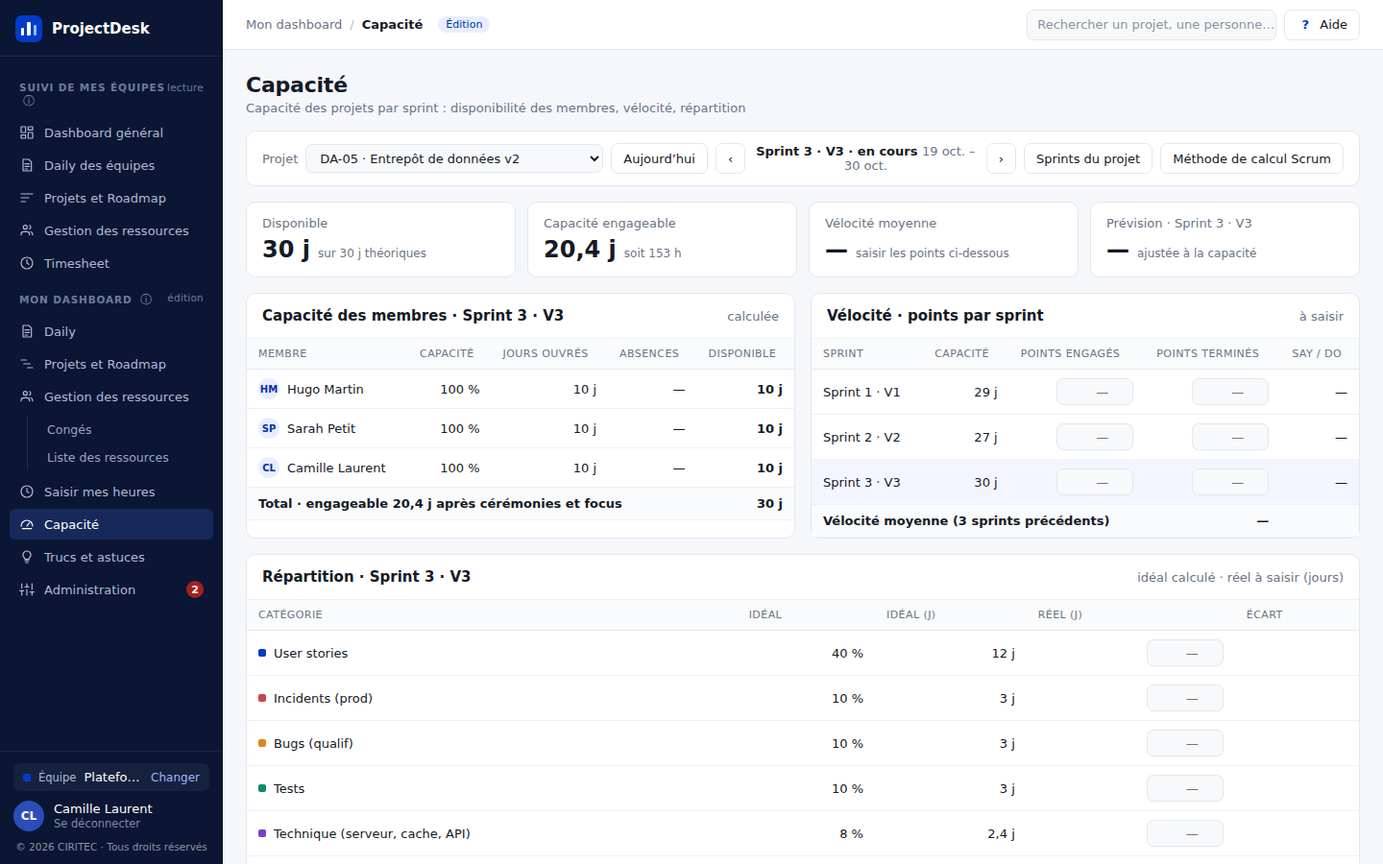
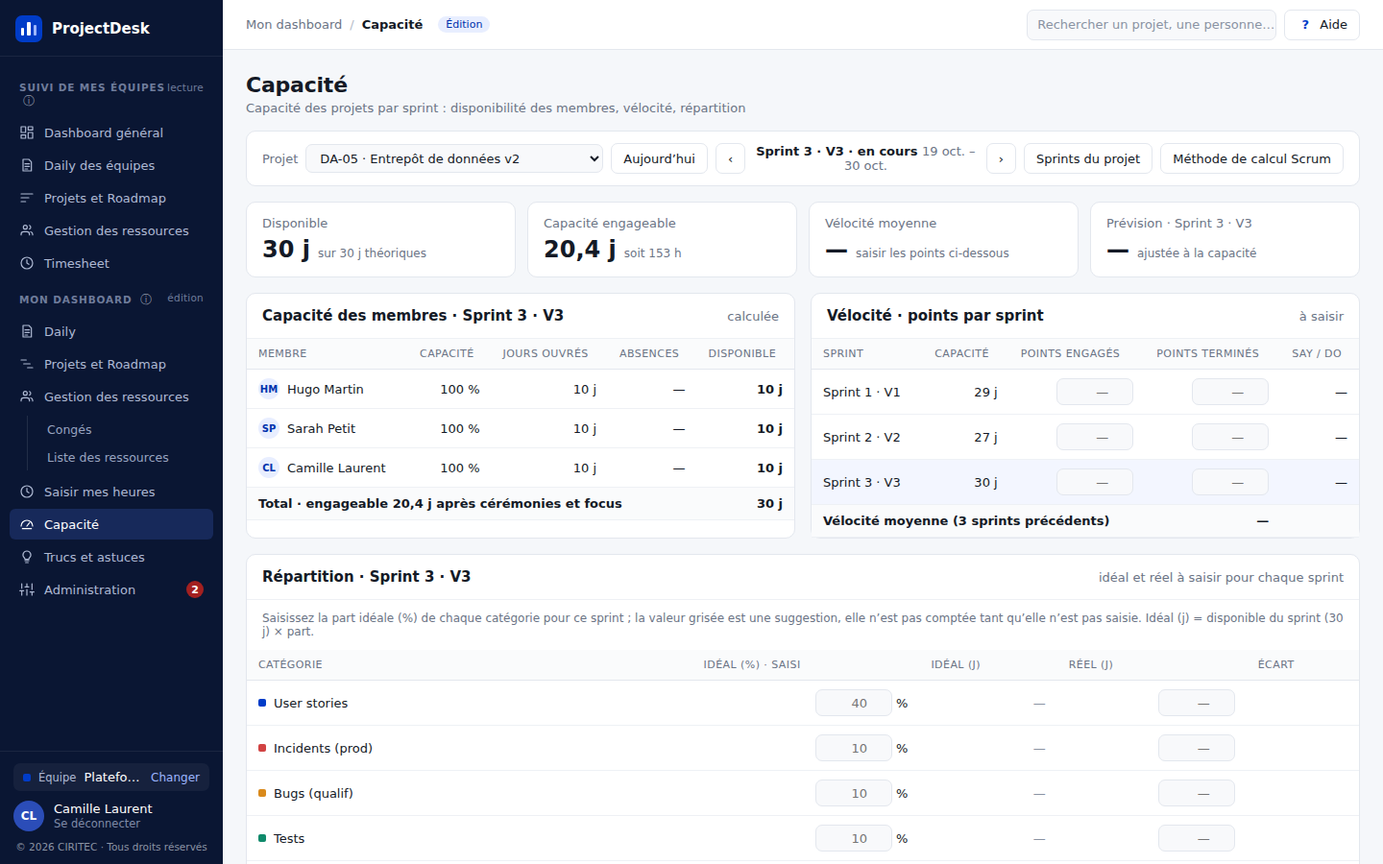
Capacité : part idéale de la répartition saisie par sprint (2.34)
Migration 040 (additive, appliquée) : colonne part de repartitions_sprint,
jours facultatif. La part de REPARTITION_SPRINT devient une suggestion
en grisé, non comptée ; idéal (j) = disponible × part saisie ; alerte
non bloquante si le total ≠ 100 %.

Claude-Session: https://claude.ai/code/session_0187v8SY8uiT6dnWqjjqJYb6

diff --git a/app/js/ecrans/capacite.js b/app/js/ecrans/capacite.js
@@ -5,7 +5,7 @@
    - indicateurs : disponible, engageable (Scrum), vélocité, prévision ;
    - capacité des membres (calculée : congés, fériés, arrivées et départs) ;
    - vélocité : points engagés / terminés SAISIS par sprint ;
-   - répartition du sprint : idéal (REPARTITION_SPRINT) et jours réels SAISIS par catégorie.
+   - répartition du sprint : part idéale (%) et jours réels SAISIS par catégorie (part suggérée : REPARTITION_SPRINT).
    Calculs : Calculs.capacitePeriode, capaciteScrum, velocite, repartitionSprint.
    Saisies : tables sprints_projet et repartitions_sprint (etat.d.sprintsProjet, repartitionsSprint).
    ============================================================ */
@@ -28,9 +28,19 @@ const Capacite = {
   },
   // Saisies d'un projet pour un sprint (lignes vides si rien n'est encore saisi)
   saisieSprint: (projetId, numero) => (etat.d.sprintsProjet || []).find(s => s.projetId === projetId && s.numero === numero) || {},
-  joursReels: (projetId, numero, categorie) => {
-    const r = (etat.d.repartitionsSprint || []).find(x => x.projetId === projetId && x.numero === numero && x.categorie === categorie);
-    return r ? Number(r.jours) : null;
+  // Saisie de répartition d'une catégorie pour un sprint (part idéale et jours réels), ou null
+  saisieRepartition: (projetId, numero, categorie) =>
+    (etat.d.repartitionsSprint || []).find(x => x.projetId === projetId && x.numero === numero && x.categorie === categorie) || null,
+  joursReels(projetId, numero, categorie) {
+    const r = this.saisieRepartition(projetId, numero, categorie);
+    return r && r.jours != null ? Number(r.jours) : null;
+  },
+  // Parts idéales saisies pour un sprint : { catégorie: % } (migration 040)
+  partsSaisies(projetId, numero) {
+    const parts = {};
+    (etat.d.repartitionsSprint || []).filter(x => x.projetId === projetId && x.numero === numero && x.part != null)
+      .forEach(x => { parts[x.categorie] = Number(x.part); });
+    return parts;
   },
 
   /* Données du sprint affiché, calculées une fois pour toutes les cartes :
@@ -130,26 +140,41 @@ const Capacite = {
         <td class="num">${v ? n(v.velocite) + ' pts' : '—'}</td><td class="num">${v ? '≈ ' + n(v.prevision) + ' pts prévus' : ''}</td></tr></tbody></table></div>`;
   },
 
-  // Répartition du sprint : idéal calculé (REPARTITION_SPRINT), jours réels saisis par catégorie, écart
+  /* Répartition du sprint (maquette capacite-repartition-saisie/, porteur 2026-10-23) : part idéale (%)
+     et jours réels SAISIS par catégorie ; idéal (j) = disponible × part saisie ; la part suggérée
+     (REPARTITION_SPRINT) n'apparaît qu'en grisé et n'est pas comptée */
   carteRepartition(d) {
     const esc = C.esc, n = Calculs.nombre, { p, sprint, capSprint, modifiable } = d;
-    const lignes = Calculs.repartitionSprint(capSprint.disponible).map(c => {
+    const categories = Calculs.repartitionSprint(capSprint.disponible, this.partsSaisies(p.id, sprint.numero));
+    const champ = (c, nom, valeur, attributs) => `<input type="number" min="0" ${attributs} class="champ saisie-points" value="${valeur ?? ''}"
+      ${modifiable ? '' : 'disabled'} data-action-change="saisirRepartition" data-champ="${nom}" data-projet="${p.id}" data-numero="${sprint.numero}"
+      data-categorie="${esc(c.categorie)}">`;
+    const lignes = categories.map(c => {
       const reel = this.joursReels(p.id, sprint.numero, c.categorie);
-      const ecart = reel == null ? ''
+      const ecart = reel == null || c.jours == null ? ''
         : `<span class="${reel - c.jours > 0.5 ? 'reste-negatif' : 'discret'}">${reel - c.jours > 0 ? '+' : ''}${n(reel - c.jours)} j</span>`;
-      return `<tr><td><span class="ligne-flex">${C.pastille(c.couleur)}${esc(c.categorie)}</span></td><td class="num">${c.part} %</td>
-        <td class="num">${n(c.jours)} j</td>
-        <td class="num"><input type="number" min="0" step="0.5" class="champ saisie-points" value="${reel ?? ''}" placeholder="—" ${modifiable ? '' : 'disabled'}
-          data-action-change="saisirRepartition" data-projet="${p.id}" data-numero="${sprint.numero}" data-categorie="${esc(c.categorie)}"></td>
-        <td class="num">${ecart}</td></tr>`;
+      return `<tr><td><span class="ligne-flex">${C.pastille(c.couleur)}${esc(c.categorie)}</span></td>
+        <td class="num">${champ(c, 'part', c.part, `max="100" step="0.5" placeholder="${c.suggestion}"`)} %</td>
+        <td class="num">${c.jours == null ? '<span class="pale">—</span>' : n(c.jours) + ' j'}</td>
+        <td class="num">${champ(c, 'jours', reel, 'step="0.5" placeholder="—"')}</td><td class="num">${ecart}</td></tr>`;
     }).join('');
-    const totalReel = REPARTITION_SPRINT.reduce((s, c) => s + (this.joursReels(p.id, sprint.numero, c.categorie) || 0), 0);
     return `<div class="carte"><div class="carte-titre"><h2>Répartition · ${esc(nomSprint(sprint))}</h2>
-      <span class="discret">idéal calculé · réel à saisir (jours)</span></div>
-      <table class="tableau"><thead><tr><th>Catégorie</th><th class="num">Idéal</th><th class="num">Idéal (j)</th>
+      <span class="discret">idéal et réel à saisir pour chaque sprint</span></div>
+      <div class="discret texte-12 encart-compact">Saisissez la part idéale (%) de chaque catégorie pour ce sprint ; la valeur grisée est une
+        suggestion, elle n’est pas comptée tant qu’elle n’est pas saisie. Idéal (j) = disponible du sprint (${n(capSprint.disponible)} j) × part.</div>
+      <table class="tableau"><thead><tr><th>Catégorie</th><th class="num">Idéal (%) · saisi</th><th class="num">Idéal (j)</th>
         <th class="num">Réel (j)</th><th class="num">Écart</th></tr></thead>
-      <tbody>${lignes}<tr class="groupe"><td>Total</td><td class="num">100 %</td><td class="num">${n(capSprint.disponible)} j</td>
-        <td class="num">${n(totalReel)} j</td><td></td></tr></tbody></table></div>`;
+      <tbody>${lignes}${this.totalRepartition(categories, p, sprint)}</tbody></table></div>`;
+  },
+  // Ligne Total de la répartition : somme des parts saisies (alerte si ≠ 100 %, sans bloquer), des jours idéaux et réels
+  totalRepartition(categories, p, sprint) {
+    const n = Calculs.nombre, saisies = categories.filter(c => c.part != null);
+    const totalPart = saisies.reduce((s, c) => s + c.part, 0), totalIdeal = saisies.reduce((s, c) => s + c.jours, 0);
+    const totalReel = categories.reduce((s, c) => s + (this.joursReels(p.id, sprint.numero, c.categorie) || 0), 0);
+    const alerte = saisies.length && totalPart !== 100
+      ? ` ${C.badgeTon(totalPart < 100 ? `≠ 100 % : il manque ${n(100 - totalPart)} %` : `≠ 100 % : ${n(totalPart - 100)} % en trop`, 'attention')}` : '';
+    return `<tr class="groupe"><td>Total</td><td class="num"><span class="${alerte ? 'reste-negatif' : ''}">${n(totalPart)} %</span>${alerte}</td>
+      <td class="num">${n(totalIdeal)} j</td><td class="num">${n(totalReel)} j</td><td></td></tr>`;
   },
 
   // Onglet Capacité : sans projet ou sans sprint, un message ; sinon en-tête, indicateurs et les trois cartes
@@ -185,16 +210,20 @@ Object.assign(Actions, {
     if (valeur !== null && !(valeur >= 0)) return notifier('Nombre de points invalide', 'erreur');
     modifierSprint(d.projet, d.numero, { [d.champ]: valeur });
   },
-  /* Jours réels d'une catégorie pour un sprint : upsert ; un champ vidé supprime la saisie */
+  /* Part idéale (%) ou jours réels d'une catégorie pour un sprint (data-champ = part | jours) : upsert ;
+     un champ vidé efface la valeur, et la ligne entière si l'autre valeur est vide aussi (contrainte de la migration 040) */
   saisirRepartition(d, el) {
     const cle = { projetId: d.projet, numero: Number(d.numero), categorie: d.categorie };
+    const filtre = { projet_id: 'eq.' + cle.projetId, numero: 'eq.' + cle.numero, categorie: 'eq.' + cle.categorie };
     if (el.value === '') {
-      const filtre = { projet_id: 'eq.' + cle.projetId, numero: 'eq.' + cle.numero, categorie: 'eq.' + cle.categorie };
-      return executer(() => Api.supprimer('repartitions_sprint', filtre), 'repartitionsSprint');
+      const ligne = Capacite.saisieRepartition(cle.projetId, cle.numero, cle.categorie), autre = d.champ === 'part' ? 'jours' : 'part';
+      if (!ligne) return;
+      return executer(() => ligne[autre] == null ? Api.supprimer('repartitions_sprint', filtre)
+        : Api.modifier('repartitions_sprint', filtre, { [d.champ]: null }), 'repartitionsSprint');
     }
-    const jours = Number(el.value);
-    if (!(jours >= 0)) return notifier('Nombre de jours invalide', 'erreur');
-    executer(() => Api.creer('repartitions_sprint', { ...cle, jours }, 'projet_id,numero,categorie'), 'repartitionsSprint');
+    const valeur = Number(el.value);
+    if (!(valeur >= 0) || (d.champ === 'part' && valeur > 100)) return notifier(d.champ === 'part' ? 'Part invalide (0 à 100 %)' : 'Nombre de jours invalide', 'erreur');
+    executer(() => Api.creer('repartitions_sprint', { ...cle, [d.champ]: valeur }, 'projet_id,numero,categorie'), 'repartitionsSprint');
   }
 });
 

diff --git a/app/index.html b/app/index.html
@@ -11,7 +11,7 @@
 <link href="https://fonts.googleapis.com/css2?family=IBM+Plex+Sans:wght@400;500;600;700&family=IBM+Plex+Mono:wght@400;500&display=swap" rel="stylesheet">
 <!-- ?v= : version des fichiers (= version du DAT), à changer à chaque livraison : force le navigateur
      à recharger le code au lieu de réutiliser une ancienne copie en mémoire. -->
-<link rel="stylesheet" href="css/theme.css?v=2.33">
+<link rel="stylesheet" href="css/theme.css?v=2.34">
 </head>
 <body>
   <!-- Toute l'interface est dessinée dans #app par js/coquille.js et js/ecrans/*.js -->
@@ -19,33 +19,33 @@
   <div id="notification" class="notification" role="status"></div>
 
   <!-- Ordre de chargement : configuration, outils, état, puis écrans (qui s'enregistrent dans Ecrans) -->
-  <script src="js/config.js?v=2.33"></script>
-  <script src="js/api.js?v=2.33"></script>
-  <script src="js/calculs.js?v=2.33"></script>
-  <script src="js/etat.js?v=2.33"></script>
-  <script src="js/composants.js?v=2.33"></script>
-  <script src="js/coquille.js?v=2.33"></script>
-  <script src="js/panneau-projet.js?v=2.33"></script>
-  <script src="js/modale.js?v=2.33"></script>
-  <script src="js/excel.js?v=2.33"></script>
-  <script src="js/roles.js?v=2.33"></script>
-  <script src="js/simulation.js?v=2.33"></script>
-  <script src="js/ecrans/connexion.js?v=2.33"></script>
-  <script src="js/ecrans/choix-equipe.js?v=2.33"></script>
-  <script src="js/ecrans/dashboard.js?v=2.33"></script>
-  <script src="js/ecrans/projets.js?v=2.33"></script>
-  <script src="js/ecrans/ressources.js?v=2.33"></script>
-  <script src="js/ecrans/administration.js?v=2.33"></script>
-  <script src="js/ecrans/timesheet.js?v=2.33"></script>
-  <script src="js/ecrans/daily-equipes.js?v=2.33"></script>
-  <script src="js/ecrans/daily.js?v=2.33"></script>
-  <script src="js/ecrans/mes-projets.js?v=2.33"></script>
-  <script src="js/ecrans/conges.js?v=2.33"></script>
-  <script src="js/ecrans/capacite.js?v=2.33"></script>
-  <script src="js/ecrans/liste-ressources.js?v=2.33"></script>
-  <script src="js/ecrans/mon-timesheet.js?v=2.33"></script>
-  <script src="js/ecrans/previsionnel.js?v=2.33"></script>
-  <script src="js/ecrans/mon-admin.js?v=2.33"></script>
-  <script src="js/ecrans/astuces.js?v=2.33"></script>
+  <script src="js/config.js?v=2.34"></script>
+  <script src="js/api.js?v=2.34"></script>
+  <script src="js/calculs.js?v=2.34"></script>
+  <script src="js/etat.js?v=2.34"></script>
+  <script src="js/composants.js?v=2.34"></script>
+  <script src="js/coquille.js?v=2.34"></script>
+  <script src="js/panneau-projet.js?v=2.34"></script>
+  <script src="js/modale.js?v=2.34"></script>
+  <script src="js/excel.js?v=2.34"></script>
+  <script src="js/roles.js?v=2.34"></script>
+  <script src="js/simulation.js?v=2.34"></script>
+  <script src="js/ecrans/connexion.js?v=2.34"></script>
+  <script src="js/ecrans/choix-equipe.js?v=2.34"></script>
+  <script src="js/ecrans/dashboard.js?v=2.34"></script>
+  <script src="js/ecrans/projets.js?v=2.34"></script>
+  <script src="js/ecrans/ressources.js?v=2.34"></script>
+  <script src="js/ecrans/administration.js?v=2.34"></script>
+  <script src="js/ecrans/timesheet.js?v=2.34"></script>
+  <script src="js/ecrans/daily-equipes.js?v=2.34"></script>
+  <script src="js/ecrans/daily.js?v=2.34"></script>
+  <script src="js/ecrans/mes-projets.js?v=2.34"></script>
+  <script src="js/ecrans/conges.js?v=2.34"></script>
+  <script src="js/ecrans/capacite.js?v=2.34"></script>
+  <script src="js/ecrans/liste-ressources.js?v=2.34"></script>
+  <script src="js/ecrans/mon-timesheet.js?v=2.34"></script>
+  <script src="js/ecrans/previsionnel.js?v=2.34"></script>
+  <script src="js/ecrans/mon-admin.js?v=2.34"></script>
+  <script src="js/ecrans/astuces.js?v=2.34"></script>
 </body>
 </html>

diff --git a/tests/parcours.js b/tests/parcours.js
@@ -488,11 +488,25 @@ const verifier = (nom, condition, detail = '') => { resultats.push({ nom, ok: !!
     // Saisie : points terminés du sprint précédent (V2) → vélocité ; jours réels d'une catégorie
     await page.fill('input[data-action-change="saisirPoints"][data-champ="pointsTermines"] >> nth=1', '21');
     await page.press('input[data-action-change="saisirPoints"][data-champ="pointsTermines"] >> nth=1', 'Tab'); await page.waitForTimeout(400);
-    await page.fill('input[data-action-change="saisirRepartition"] >> nth=0', '11');
-    await page.press('input[data-action-change="saisirRepartition"] >> nth=0', 'Tab'); await page.waitForTimeout(400);
+    await page.fill('input[data-action-change="saisirRepartition"][data-champ="jours"] >> nth=0', '11');
+    await page.press('input[data-action-change="saisirRepartition"][data-champ="jours"] >> nth=0', 'Tab'); await page.waitForTimeout(400);
     verifier('Capacité : saisie des points (vélocité) et des jours réels enregistrée', await page.evaluate(() =>
       etat.d.sprintsProjet.some(s => s.nom === 'V2' && Number(s.pointsTermines) === 21) && etat.d.repartitionsSprint.some(r => r.categorie === 'User stories' && Number(r.jours) === 11))
       && (await page.textContent('.grille-kpi')).includes('21 pts'));
+    /* Répartition (migration 040, porteur 2026-10-23) : part idéale saisie par sprint ; sans saisie, pas d'idéal (suggestion en grisé) */
+    const sansPart = await page.$eval('input[data-champ="part"][data-categorie="User stories"]', e => e.value === '' && e.placeholder === '40');
+    await page.fill('input[data-champ="part"][data-categorie="User stories"]', '45');
+    await page.press('input[data-champ="part"][data-categorie="User stories"]', 'Tab'); await page.waitForTimeout(400);
+    const ligneUs = await page.$eval('input[data-champ="part"][data-categorie="User stories"]', e => e.closest('tr').textContent.replace(/\s+/g, ' '));
+    const disponible = await page.evaluate(() => Calculs.nombre(etat.d.repartitionsSprint.length && Capacite.donnees(Capacite.projetChoisi(),
+      sprintsDuProjet(Capacite.projetChoisi().id)).capSprint.disponible * 0.45));
+    verifier('Capacité › Répartition : part idéale saisie pour le sprint, idéal (j) calculé, alerte si le total ≠ 100 %',
+      sansPart && ligneUs.includes(disponible + ' j') && (await texte()).includes('il manque 55 %')
+      && await page.evaluate(() => etat.d.repartitionsSprint.some(r => r.categorie === 'User stories' && Number(r.part) === 45 && Number(r.jours) === 11)),
+      ligneUs);
+    await page.evaluate(() => { const c = document.querySelector('.contenu'); c.scrollTop = c.scrollHeight; });
+    await capture('11c-capacite-repartition');
+    await page.evaluate(() => { document.querySelector('.contenu').scrollTop = 0; });
     await page.click('[data-action="ouvrirMethodeCapacite"]'); await page.waitForTimeout(150);
     const methode = (await page.textContent('.modale')) || '';
     await page.click('.modale [data-action="fermer"]'); await page.waitForTimeout(150);

diff --git a/app/js/calculs.js b/app/js/calculs.js
@@ -83,8 +83,13 @@ const Calculs = (() => {
     return { velocite: moyennePoints, capaciteMoyenne: moyenneCapacite,
       prevision: moyenneCapacite ? moyennePoints * capaciteSprint / moyenneCapacite : 0 };
   }
-  // Répartition idéale d'un sprint : jours par catégorie = jours disponibles × part (REPARTITION_SPRINT)
-  const repartitionSprint = disponible => REPARTITION_SPRINT.map(c => ({ ...c, jours: disponible * c.part / 100 }));
+  /* Répartition idéale d'un sprint : jours par catégorie = jours disponibles × part SAISIE pour le sprint
+     (migration 040, porteur 2026-10-23). parts = { catégorie: % saisi }. Sans saisie : part et jours null
+     (la part de REPARTITION_SPRINT reste en « suggestion », elle n'est pas comptée). */
+  const repartitionSprint = (disponible, parts) => REPARTITION_SPRINT.map(c => {
+    const part = parts[c.categorie] ?? null;
+    return { ...c, suggestion: c.part, part, jours: part == null ? null : disponible * part / 100 };
+  });
 
   /* ---------- Projets ---------- */
   const estTermine = p => p.statut === STATUTS_PROJET.TERMINE;

diff --git a/app/js/modale.js b/app/js/modale.js
@@ -204,8 +204,9 @@ const Modale = {
         ${bloc('Vélocité', [`<b>Vélocité</b> = moyenne des points terminés sur les ${CONFIG.SPRINTS_MOYENNE_VELOCITE} derniers sprints`,
           '<b>Prévision</b> du sprint = vélocité × (capacité du sprint ÷ capacité moyenne des sprints de référence)',
           'ne se compare pas entre équipes : elle sert à prévoir'])}
-        ${bloc('Répartition idéale d’un sprint', ['<b>Jours par catégorie</b> = jours disponibles du sprint × part de la catégorie',
-          'parts proposées (pratiques Scrum usuelles, à ajuster) : ' + REPARTITION_SPRINT.map(c => `${C.esc(c.categorie)} ${c.part} %`).join(' · ')])}
+        ${bloc('Répartition idéale d’un sprint', ['<b>Jours par catégorie</b> = jours disponibles du sprint × part saisie pour ce sprint',
+          'parts suggérées (pratiques Scrum usuelles, en grisé tant qu’elles ne sont pas saisies) : '
+            + REPARTITION_SPRINT.map(c => `${C.esc(c.categorie)} ${c.part} %`).join(' · ')])}
       </div></div>`;
   },
 

diff --git a/app/js/config.js b/app/js/config.js
@@ -173,8 +173,9 @@ const STATUTS_MEP = [
   { valeur: 'reportee', libelle: 'Reportée', ton: 'attention' }
 ];
 const ENVOI_DAILY_DEFAUT = { mode: 'aucun', heure: '09:30', jours: '1,2,3,4,5', sansFeries: true, destinataires: '' };
-/* Répartition idéale du temps d'un sprint par catégorie de travail (demande du porteur 2026-09-27).
-   Source : pratiques Scrum usuelles, à ajuster par le porteur. Total = 100 %. La part
+/* Catégories de travail d'un sprint et part SUGGÉRÉE (demande du porteur 2026-09-27).
+   Depuis le 2026-10-23 (migration 040), la part idéale se saisit pour chaque sprint dans Capacité ;
+   la part ci-dessous n'est qu'une suggestion affichée en grisé. Source : pratiques Scrum usuelles. Total = 100 %. La part
    « Cérémonies / réunions » (15 %) correspond à CEREMONIES_JOURS_SPRINT (1,5 j) sur un sprint
    de 10 jours ouvrés : les deux règles restent cohérentes. */
 const REPARTITION_SPRINT = [

diff --git a/docs/DAT.md b/docs/DAT.md
@@ -148,6 +148,7 @@
 | 2.31    | 2026-10-23 | **Menu « Administration créateur »** (porteur : « je veux un menu administration et un menu administration créateur » ; choix : Simulation des rôles ; maquette `admin-createur/` validée « Go ») : écran `adminCreateur` (simulation.js), visible du créateur seul, sous Administration ; l'onglet « ★ Simulation des rôles » quitte Administration ; aides mises à jour. 141 contrôles (§ 3.3) |
 | 2.32    | 2026-10-23 | **Planning des sprints** dans Suivi de mes équipes › Projets et Roadmap (porteur : « un planning de MEP et un planning des sprints » ; maquette `roadmap-mep-sprints/` validée, Roadmap et Mon dashboard reportés) : onglets Projets / Planning des sprints (`PlanningSprints`, projets.js), lecture seule, base inchangée. Planning des MEP en attente (source des données à décider). 142 contrôles (§ 3.2) |
 | 2.33    | 2026-10-23 | **Planning des MEP** (porteur : « la saisie se fera dans mon dashboard, tu peux créer maintenant ») : migration **039** additive (table `mises_en_production`, RLS comme `sprints_projet` ; appliquée, comptages inchangés, Data API rechargée) ; Suivi › Projets et Roadmap : onglet Planning des MEP (`PlanningMep`, lecture) ; Mon dashboard › Projets et Roadmap : onglets Gantt / **MEP** (saisie) ; `STATUTS_MEP` (config.js), `misesEnProductionDe`, `badgeMep` (etat.js). 144 contrôles (§ 3, § 4) |
+| 2.34    | 2026-10-23 | **Capacité › Répartition saisie à la main** (porteur : « la répartition doit être saisie manuellement », choix « % par sprint » ; maquette `capacite-repartition-saisie/` validée « go ») : migration **040** additive (colonne `part` de `repartitions_sprint`, `jours` facultatif ; appliquée, comptages inchangés, Data API rechargée) ; part idéale saisie par sprint, suggestion en grisé non comptée, alerte si total ≠ 100 % ; `Calculs.repartitionSprint(disponible, parts)`. 145 contrôles (§ 3, § 4, § 6) |
 | 1.44    | 2026-09-27 | Calcul type Scrum : formule déplacée dans une pop-in (bouton « Comment est-ce calculé ? » en haut à droite), avec un exemple chiffré sur CDO (membres, jours ouvrés, absences, cérémonies, focus) (§ 2.1, § 3.3) |
 
 ---
@@ -273,7 +274,7 @@ règlent l'**affichage** ; ce qu'on peut modifier reste contrôlé par la base (
 | `daily` | `daily.js` | **Un daily par projet** où je suis affecté(e) (Chef de projet, Membre ; projet en cours) — maquette `daily-par-projet/` : par projet trois champs **Hier (la veille)**, **Aujourd’hui**, **Blocages** (enregistrement auto après 0,8 s), « Hier » rappelle l'« Aujourd'hui » de la veille ; « n / N projets renseignés » ; **lié aux congés** : jour d'absence d'une journée → « aucun daily attendu », cartes repliées (demi-journée : saisie ouverte) ; historique (projets renseignés ou congé) | `08-daily.png` |
 | `mesProjets` | `mes-projets.js` | Onglets **Gantt** (projets où je suis affecté) et **MEP** (2.33 : saisie des mises en production des projets que je peux modifier — `peutEditerProjet` — projet, date, version, contenu, statut `STATUTS_MEP` ; chaque champ s'enregistre dès qu'il change) ; « + Nouveau projet », « Objectifs de l'équipe » | `09-mes-projets.png`, `09b-saisie-mep.png`, `10-panneau-projet.png` |
 | `conges` | `conges.js` | Sous-menu **Congés** (« Congés & capacité » jusqu'à 2.25) — deux **onglets** : Grille mensuelle éditable (« pinceau » par type d'absence ; sélecteur **Par équipe** (chaque personne une seule fois sous son unité, responsable en tête, étiquettes de ses projets, puis synthèse « absents / membres » par projet) / **Par projet** (membres du projet choisi + sa synthèse) — maquettes `conges-sans-doublon/`, pistes 2 et 3), Récap annuel (reprise de l'onglet « Jours de congés » du porteur : par mois T = travaillés / C = congés (fériés exclus), totaux, **reste à prendre** = total travaillé − jours attendus par le client, objectif modifiable par équipe et par année — maquette `recap-jours-travailles.png`). | `11-conges.png` |
-| `capacite` | `capacite.js` | **Menu Capacité** de Mon dashboard, juste au-dessus du Plan de charge (2.26, maquette `capacite-menu/` ; auparavant onglet de Congés & capacité), droit `onglet_conges_capacite` (ligne de menu de la matrice) — objet `Capacite`, maquette `capacite-saisie/`) : projet (CDO par défaut) et sprint parmi **les sprints saisis du projet** (‹ ›, sprint en cours par défaut ; bouton « Sprints du projet » → Administration › Sprints ; maquette `sprints-projet/`) ; indicateurs disponible / engageable / vélocité moyenne / prévision ; capacité des membres (calculée) ; **vélocité** : points engagés et terminés **saisis** par sprint, say/do ; **répartition du sprint** : idéal par catégorie (calculé) et jours réels **saisis**, écart. Champs désactivés si le projet n'est pas modifiable. Bouton **« Méthode de calcul Scrum »** en haut à droite : pop-in des formules (`Modale.methodeCapacite`, maquette `capacite-scrum/`) | `11b-capacite.png` |
+| `capacite` | `capacite.js` | **Menu Capacité** de Mon dashboard, juste au-dessus du Plan de charge (2.26, maquette `capacite-menu/` ; auparavant onglet de Congés & capacité), droit `onglet_conges_capacite` (ligne de menu de la matrice) — objet `Capacite`, maquette `capacite-saisie/`) : projet (CDO par défaut) et sprint parmi **les sprints saisis du projet** (‹ ›, sprint en cours par défaut ; bouton « Sprints du projet » → Administration › Sprints ; maquette `sprints-projet/`) ; indicateurs disponible / engageable / vélocité moyenne / prévision ; capacité des membres (calculée) ; **vélocité** : points engagés et terminés **saisis** par sprint, say/do ; **répartition du sprint** : part idéale (%) **saisie pour chaque sprint** (2.34, maquette `capacite-repartition-saisie/` ; part suggérée en grisé, non comptée), idéal (j) calculé, jours réels **saisis**, écart, total avec alerte si ≠ 100 % (non bloquant). Champs désactivés si le projet n'est pas modifiable. Bouton **« Méthode de calcul Scrum »** en haut à droite : pop-in des formules (`Modale.methodeCapacite`, maquette `capacite-scrum/`) | `11b-capacite.png`, `11c-capacite-repartition.png` |
 | `listeRessources` | `liste-ressources.js` | Maquette `liste-ressources-ux/3-navigation-detail.png` (depuis 1.90). **Navigation à gauche** : les équipes (le niveau direction n'est pas affiché : les équipes d'une direction sont listées directement ; une direction reste listée si elle porte elle-même des projets ou des personnes, ou si elle est vide), sous chacune son responsable (`responsable_id`) et ses projets (nombre de personnes) ; recherche sur équipes, projets et personnes ; en bas **Postes** et **Types de contrat**. **Détail à droite** de l'élément choisi (`ui.listeRessources.choix`, défaut : équipe ouverte) — *équipe* : modifier / supprimer (unité vide seulement), carte du responsable (« Hors projet » s'il n'est affecté à aucun projet, « Comptée dans Congés & capacité »), tableau des projets (statut, Product Owners, membres ; clic → projet), **Membres de l'équipe** (toute l'équipe, avec ses projets « VISTA · PO », puis la section « Rattachées depuis une autre équipe » : `membres_equipe`, badge « Équipe d'origine », « Retirer »), « + Projet », « + Personne existante » (rattacher, même sans projet ; maquette `membres-equipe/`), « + Personne » ; *projet* : indicateurs (Product Owners, membres, départs prévus), « Modifier le projet », **Product Owners** = affectations au rôle « Chef de projet » (+ chef de la fiche projet), plusieurs possibles, « + Ajouter un Product Owner » ; **Membres** (et lecteurs) avec rôle, « + Membre » ; *Postes / Types de contrat* : valeurs, nombre de ressources, statut, renommage (propagé aux fiches), suppression si inutilisée. Tableaux de personnes (depuis 1.93, maquette `role-acces/`) : sections **Actifs** et **Inactifs** repliables, poste, **Accès** (rôle d'accès : `roleAcces`), projets ou rôle sur le projet, **présence en clair** (`Calculs.libellePresence` : « depuis le … », « jusqu'au … », « partie le … »), statut **Inactif dès qu'une date de fin est saisie** (badge cliquable : rendre inactive / réactiver), lien Fiche (dates d'arrivée et de départ, **rôle d'accès**, ses projets). « + Ajouter une équipe » (administrateurs). Ouvert **sans équipe** pour un administrateur | `12-liste-ressources.png`, `18-postes.png` |
 | `monTimesheet` | `mon-timesheet.js` | Menu **Saisir mes heures** de Mon dashboard, juste sous Gestion des ressources (menu à part depuis 2.28 ; rangé sous Gestion des ressources de 1.79 à 2.27) — saisie **mensuelle** (maquette `saisie-mensuelle/`) : une ligne par projet où je suis affecté (Chef de projet ou Membre), une colonne par jour de semaine du mois ; JF (férié), Abs (absence d'une journée), — (hors présence) non saisissables, demi-journée saisissable ; totaux par projet, par jour et du mois / attendu ; « Soumettre le mois » | `13-mon-timesheet.png` |
 | `monAdmin` | `mon-admin.js` | **Rôles** (tous les administrateurs depuis 2.03, `roles.js`, maquettes `liste-roles/`, `affecter-roles/`, `tableau-roles/` et `roles-droits/`) : trois vues — **Matrice des droits** (13 droits × 6 rôles, Oui / Lecture / Non, depuis 2.08) ; tableau « Utilisateurs et rôles » (utilisateur, équipe, projets avec le rôle sur chacun, compte relié, poste, rôle) ; rôle d'accès de chaque personne (Administrateur, Responsable d'équipe, Membre de l'équipe) choisi dans une liste et enregistré aussitôt — rôle prévu si la personne n'est pas encore connectée ou n'a pas vérifié son email ; filtres équipe, rôle, recherche ; puis qui a quel rôle (cartes). **★ Simulation des rôles** (créateur seulement, `simulation.js`, maquette `simulation-roles/`, depuis 1.85) : voir l'application en tant qu'Administrateur, Responsable d'équipe, Chef de projet, Membre, Lecteur de projet ou Compte sans équipe, avec une personne réelle de ce rôle ; bandeau violet en haut de chaque écran (changer de rôle, revenir) ; lecture seule. **Comptes en attente** (administrateurs, maquette `comptes-en-attente/`, depuis 1.83) : inscrits sans équipe (`comptes_en_attente()`), choix de l'équipe, de la fiche ressource (fiche sans compte proposée si l'email ou le prénom correspond, ou « Créer sa fiche ») et du rôle (Membre / Admin d'équipe), « Donner l'accès » = email du compte posé sur la fiche (reliée à la connexion par `lier_ma_ressource`) + invitation dans l'équipe, « Ignorer » (`comptes_ignores`) ; pastille rouge sur le menu Administration. **Envoi du daily** (une ligne par **projet en cours**, depuis 1.73 ; réglable par administrateur, chef du projet ou responsable de son unité — mode, heure, jours, sauf fériés, destinataires ; « Configurer le flux » Power Automate, fenêtre `Modale.envoiPowerAutomate`) ; **Sprints** (sprints de chaque projet : Sprint n°, année, version, début, fin ; affichage par année) ; **Équipes** (créer / modifier, membres, invitations — administrateurs et responsables) ; **Référentiels** et **Jours fériés** (administrateurs : ajout, date, libellé, suppression, par année). Ouvert sans équipe pour un administrateur. (Demandes entrantes et formulaire de demande retirés le 2026-10-05 : gérés dans Azure DevOps.) | `14-mon-admin.png`, `26-comptes-en-attente.png`, `27b-roles.png`, `32-matrice-droits.png`, `28-simulation-roles.png`, `29-simulation-en-cours.png` |
@@ -298,7 +299,7 @@ validées : `docs/maquettes/pilotage-projet/complements/`) :
 - dans la fenêtre d'affectation, lien **« + Nouveau membre »** : crée la fiche dans l'équipe du
   projet puis revient à l'affectation, personne sélectionnée et projet coché.
 
-## 4. Modèle de données (migrations `002_pilotage_projet.sql`, `003_lecture_administrateurs.sql`, `004_daily_equipes.sql`, `005_directions_postes_contrats.sql`, `006_direction_espace_travail.sql`, `007_valeurs_systeme_renommables.sql`, `008_type_jour_ferie.sql`, `009_demi_journees.sql`, `010_tracer_modification_definer.sql`, `011_objectifs_jours_travail.sql`, `012_dates_presence.sql`, `013_saisies_capacite.sql`, `014_sprints_saisis.sql`, `015_numero_annee_sprints.sql`, `016_feuilles_temps_mensuelles.sql`, `017_envoi_daily.sql`, `018_daily_par_projet.sql`, `019_envoi_daily_projet.sql`, `020_nettoyage_tables.sql`, `021_previsionnel_temps.sql`, `022_methode_projet.sql`, `023_nettoyage_index.sql`, `024_comptes_en_attente.sql`, `025_role_createur.sql`, `026_accepter_invitations.sql`, `027_responsables_equipe.sql`, `028_responsables_et_chefs_unifies.sql`, `029_affecter_roles.sql`, `030_six_roles_acces.sql`, `031_matrice_droits.sql`, `032_administrateur_tous_projets.sql`, `033_membres_equipe.sql`, `034_daily_fiche_sans_compte.sql`, `035_methode_test_learn.sql`, `036_date_naissance.sql`, `037_droits_par_menu.sql`, `038_droits_par_onglet.sql`, `039_mises_en_production.sql` — toutes appliquées)
+## 4. Modèle de données (migrations `002_pilotage_projet.sql`, `003_lecture_administrateurs.sql`, `004_daily_equipes.sql`, `005_directions_postes_contrats.sql`, `006_direction_espace_travail.sql`, `007_valeurs_systeme_renommables.sql`, `008_type_jour_ferie.sql`, `009_demi_journees.sql`, `010_tracer_modification_definer.sql`, `011_objectifs_jours_travail.sql`, `012_dates_presence.sql`, `013_saisies_capacite.sql`, `014_sprints_saisis.sql`, `015_numero_annee_sprints.sql`, `016_feuilles_temps_mensuelles.sql`, `017_envoi_daily.sql`, `018_daily_par_projet.sql`, `019_envoi_daily_projet.sql`, `020_nettoyage_tables.sql`, `021_previsionnel_temps.sql`, `022_methode_projet.sql`, `023_nettoyage_index.sql`, `024_comptes_en_attente.sql`, `025_role_createur.sql`, `026_accepter_invitations.sql`, `027_responsables_equipe.sql`, `028_responsables_et_chefs_unifies.sql`, `029_affecter_roles.sql`, `030_six_roles_acces.sql`, `031_matrice_droits.sql`, `032_administrateur_tous_projets.sql`, `033_membres_equipe.sql`, `034_daily_fiche_sans_compte.sql`, `035_methode_test_learn.sql`, `036_date_naissance.sql`, `037_droits_par_menu.sql`, `038_droits_par_onglet.sql`, `039_mises_en_production.sql`, `040_part_repartition_sprint.sql` — toutes appliquées)
 
 Colonnes en snake_case ; l'application les manipule en camelCase (conversion dans `api.js`).
 Toutes les tables métier ont `modifie_par` / `modifie_le` (trigger `tracer_modification()`).
@@ -324,7 +325,7 @@ Toutes les tables métier ont `modifie_par` / `modifie_le` (trigger `tracer_modi
 | `affectations` | `projet_id`, `ressource_id`, `role` (Chef de projet / Membre / Lecteur) | unique (projet, ressource) |
 | `objectifs_jours_travail` | Jours de travail attendus par le client : `equipe_id`, `annee`, `jours` (défaut `JOURS_TRAVAIL_CLIENT_DEFAUT` = 218 si absent) | clé (équipe, année) |
 | `sprints_projet` | **Sprints de chaque projet** : `projet_id`, `numero` (attribué à l'ajout), `nom` (version), `debut`, `fin` (saisis dans Administration › Sprints — migration 014), `numero_sprint` (affiché « Sprint N ») et `annee` (migration 015 ; un numéro par projet et par année), `points_engages`, `points_termines` (onglet Capacité — migration 013) | clé (projet, sprint) → `projets` |
-| `repartitions_sprint` | Jours réellement passés par catégorie (onglet Capacité) : `projet_id`, `numero`, `categorie` (libellé de `REPARTITION_SPRINT`), `jours` — migration 013 ; liée au sprint du projet (`projet_id`, `numero` → `sprints_projet`, migration 020) | clé (projet, sprint, catégorie) → `projets` |
+| `repartitions_sprint` | Répartition d'un sprint par catégorie (Capacité) : `projet_id`, `numero`, `categorie` (libellé de `REPARTITION_SPRINT`), `jours` réels (migration 013, facultatif depuis la 040), `part` idéale en % (0–100, migration 040) ; au moins l'une des deux renseignée ; liée au sprint du projet (`projet_id`, `numero` → `sprints_projet`, migration 020) | clé (projet, sprint, catégorie) → `projets` |
 | `mises_en_production` | **Mises en production** des projets (migration 039, 2.33) : `id`, `projet_id` → projets (suppression du projet → ses MEP), `jour`, `version`, `contenu`, `statut` (`prevue` / `faite` / `reportee`, liste `STATUTS_MEP` de config.js) ; saisies dans Mon dashboard › Projets et Roadmap › MEP, lues dans Suivi › Projets et Roadmap › Planning des MEP |
 | `envois_daily_projet` | **Envoi du daily par projet** (migration 019) : `projet_id` (clé), `mode`, `heure`, `jours`, `sans_feries`, `destinataires` | une ligne par projet |
 | `previsions_temps` | **Plan de charge** (migration 021) : % du temps d'une personne sur un projet ; clé (`projet_id`, `ressource_id`) liée à l'affectation (supprimée avec elle) | une ligne par affectation planifiée |
@@ -438,7 +439,7 @@ refusée sur `referentiels` et `administrateurs` (usurpation).
 | Atteinte trimestrielle d'une équipe = moyenne des objectifs du trimestre | `Calculs.atteinteTrimestre` |
 | Jours travaillés (mois) : sur les jours de semaine, C = absences de tout type hors jours fériés (demi-journée = 0,5), T = jours de semaine − fériés − C ; jours hors présence (avant `date_arrivee`, après `date_depart`) exclus, mois entièrement hors présence affichés « — » ; reste à prendre = Σ T − objectif client proratisé (objectif × jours de semaine de présence ÷ jours de semaine de l'année, arrondi à 0,5) | `Calculs.joursTravaillesMois`, `Calculs.recapJoursTravailles` |
 | Vélocité : moyenne des points terminés saisis sur les `SPRINTS_MOYENNE_VELOCITE` (3) sprints précédents ; prévision = vélocité × capacité du sprint ÷ capacité moyenne de ces sprints ; say/do = terminés ÷ engagés | `Calculs.velocite` |
-| Répartition idéale d'un sprint : jours par catégorie = disponible × part (`Calculs.repartitionSprint`), comparée aux jours réels saisis ; parts `REPARTITION_SPRINT` (User stories 40, Incidents prod 10, Bugs qualif 10, Tests 10, Technique 8, Documentation 5, Autres 2, Cérémonies 15 %) — proposition à valider par le porteur | `config.js` |
+| Répartition idéale d'un sprint : jours par catégorie = disponible × part **saisie pour le sprint** (`Calculs.repartitionSprint`, migration 040 — porteur 2026-10-23 : « la répartition doit être saisie manuellement ») ; sans saisie, pas d'idéal ; comparée aux jours réels saisis ; parts `REPARTITION_SPRINT` (User stories 40, Incidents prod 10, Bugs qualif 10, Tests 10, Technique 8, Documentation 5, Autres 2, Cérémonies 15 %) = simples suggestions affichées en grisé | `config.js` |
 | Capacité type Scrum (exemples des KPI Agile, Trucs et astuces) : engageable = (disponible − Σ capacité × `CEREMONIES_JOURS_SPRINT`) × `FACTEUR_FOCUS` | `Calculs.capaciteScrum` |
 | Synthèse d'un projet : absents du jour / membres (demi-journée = 0,5) ; « partiel » si ≥ 1 absent, « critique » si plus de la moitié | `Calculs.absentsDuJour` |
 | Capacité (j-h) : Σ jours ouvrés × capacité, disponible = hors absences (demi-journée = 0,5) ; jours hors présence de la personne exclus (`Calculs.estPresent`) | `Calculs.capacitePeriode` |
@@ -513,7 +514,7 @@ refusée sur `referentiels` et `administrateurs` (usurpation).
 | Outil | Contenu |
 |-------|---------|
 | `tests/serveur-simule.js` | Neon Auth (dont Google simulé) + Data API simulés en mémoire, identifiants numérotés (et non aléatoires) pour des captures reproductibles, données de la maquette (comptes `camille@test.fr` administratrice/owner, `thomas@test.fr` membre, `elodie@test.fr` demandeuse, `admin@test.fr` administratrice sans équipe ; mot de passe `motdepasse`) |
-| `tests/parcours.js` | Parcours Playwright de bout en bout (144 contrôles, dont « Suivi de mes équipes en lecture seule », l'aller-retour Google simulé, le parcours administrateur sans équipe, le daily des équipes, l'export Excel du daily, le plan de charge et le board des ressources) + captures `docs/maquettes/etat-actuel/` |
+| `tests/parcours.js` | Parcours Playwright de bout en bout (145 contrôles, dont « Suivi de mes équipes en lecture seule », l'aller-retour Google simulé, le parcours administrateur sans équipe, le daily des équipes, l'export Excel du daily, le plan de charge et le board des ressources) + captures `docs/maquettes/etat-actuel/` |
 | `scripts/verifier-docs.js` | Cohérence documentation ↔ code après chaque commit (§ 11) |
 
 Les règles RLS ne sont pas simulées : elles sont vérifiées en base et lors de la recette réelle.
